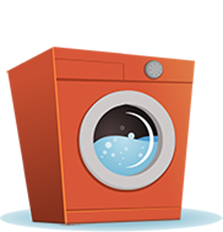
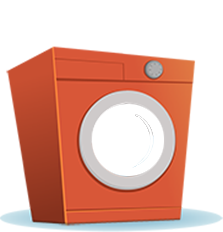
finalizada animacion de lavadora, empezando ultima animacion con error de scroll

Changed region(s): [[0.4036, 0.4224, 0.7534, 0.7845]]

diff --git a/lib/animaciones.js b/lib/animaciones.js
@@ -73,13 +73,13 @@ $('#mensaje_2_1').fadeIn(1000, function(){
                                                 $('#tele_11').fadeIn(200, function(){
                                                     $('#tele_12').fadeIn(200, function(){
                                                         $('#tele_13').fadeIn(200, function(){
-                                                            n_tele=0;
-                                                            setInterval(function(){
-                                                                if(n_tele<=13){
-                                                                    $('#tele_'+n_tele+'').attr("src", "img/tele.gif");
-                                                                    n_tele++;
-                                                                }
-                                                            }, 200);
+//                                                            n_tele=0;
+//                                                            setInterval(function(){
+//                                                                if(n_tele<=13){
+//                                                                    $('#tele_'+n_tele+'').attr("src", "img/tele.gif");
+//                                                                    n_tele++;
+//                                                                }
+//                                                            }, 200);
                                                      });
                                                 });
                                            });
@@ -146,5 +146,19 @@ $('#girar').animate({'margin-left':'326px'}, 2900, function(){
 /*+++++++++++++++++++++++++++++++++++++++++++++++++++++++++++++++++++++++++++++++*/
 /*//////////////////COLCOCACION/////////////////////////*/
 function interaccion_4() {
-
+    setTimeout(function (){ $('#poner').animate({'font-size':'32px'}, 1000, function(){
+        $('#num_lavadoras').animate({'font-size':'161px'}, 1000, function(){
+            $('#let_lavadoras').animate({'font-size':'50px'}, 1000, function(){
+                var angle = 0;
+                setInterval(function(){
+                    angle+=5;
+                     $(".bombo").rotate(angle);
+                },1);
+            });
+        });
+    });
+    }, 1000);
+}
+function interaccion_5() {
+    
 }

diff --git a/lib/colocacion.js b/lib/colocacion.js
@@ -16,15 +16,21 @@ $(document).ready(function() {
     }
     if($(window).height()>748){
         alto=($(window).height()-748)/2;
+        tam=$(window).height()-(alto*2)+40;
         alto+=40;
-        $('.cartel_4').css({'padding-bottom':''+alto+'px', 'padding-top':''+alto+'px'});
+        $('.cartel_4').css({'padding-bottom':''+alto+'px', 'padding-top':''+alto+'px', 'height':''+tam+'px'});
     }
+    
     if($(window).height()>697){
         alto=($(window).height()-748)/2;
         alto+=20;
         $('.cartel_5').css({'padding-top':''+alto+'px'});
         alto+=75;
         $('.sub_contenedor_5').css({'padding-bottom':''+alto+'px'});
+    }
+    if($(window).width()>1000){
+        ancho=($(window).width()-1000)/2;
+        $('.contenedor_4').css({'margin-left':''+ancho+'px'});
     }
 });
 $(window).resize(function() {
@@ -45,8 +51,9 @@ $(window).resize(function() {
     }
     if($(window).height()>748){
         alto=($(window).height()-748)/2;
+        tam=$(window).height()-(alto*2)+40;
         alto+=40;
-        $('.cartel_4').css({'padding-bottom':''+alto+'px', 'padding-top':''+alto+'px'});
+        $('.cartel_4').css({'padding-bottom':''+alto+'px', 'padding-top':''+alto+'px', 'height':''+tam+'px'});
     }
     if($(window).height()>697){
         alto=($(window).height()-748)/2;
@@ -54,6 +61,10 @@ $(window).resize(function() {
         $('.cartel_5').css({'padding-top':''+alto+'px'});
         alto+=75;
         $('.sub_contenedor_5').css({'padding-bottom':''+alto+'px'});
+    }
+    if($(window).width()>1000){
+        ancho=($(window).width()-1000)/2;
+        $('.contenedor_4').css({'margin-left':''+ancho+'px'});
     }
 });
     /*-----------------------------------AJAX----------------------------*/
@@ -91,6 +102,16 @@ jQuery('#acdc_3').onScrollBeyond(
     }
 }
 );
+jQuery('#acdc_4').onScrollBeyond(
+            function() {
+                if (control === 4) {
+                    $('body, html').stop(true, true).animate({
+                        scrollTop: $('#cartel_5').offset().top//vamos al ancla para ver la animacion
+                    }, 1000);
+                    control = 5;interaccion_5();
+                }
+            }
+    );
 ///*------------------------------------CARGA 3------------------------------------------*/
 //        if(control===2){
 //            $('body, html').stop(true, true).animate({

diff --git a/css/estilos.css b/css/estilos.css
@@ -147,16 +147,19 @@
     width: 100%;
     padding-bottom: 20px;
     padding-top: 20px;
+    height: 748px;
 }
 .contenedor_4{
     width: 1000px;
     margin: 0 auto;
+    position: absolute;
+    z-index: 0;
 }
 .lavadoras:first-child{
     margin-left: 0px;
 }
 .lavadoras{
-    margin-left: 36px;
+    margin-left: 0px;
 }
 .contenido_lavadora{
     float: left;
@@ -170,17 +173,31 @@
     font-family: 'Oswald', sans-serif;
     color: #1bcada;
     font-weight: bold;
-    font-size: 32px;
+    font-size: 0px;
 }
 .letras_lavadoras:last-child{
-    font-size: 50px
+    font-size: 0px
 }
 .numero_lavadoras{
     font-family: "Allstar Regular";
     color: #D85738;
-    font-size: 161px;
+    font-size: 0px;
     letter-spacing: -30px;
     margin-left: -10px;
+}
+.lavadoras_cont{
+    float: left;
+    margin-left: 36px;
+}
+.bombo{
+    position: absolute;
+    z-index: -10;
+    margin-left: -135px;
+    margin-top: 100px;
+}
+.lavadoras_cont:first-child{
+    float: left;
+    margin-left: 0px;
 }
 /*--------------------------------------------------------------------------------*/
 /*------------------------------------CARTEL 5------------------------------------*/

diff --git a/cartel_4.php b/cartel_4.php
@@ -1,24 +1,26 @@
 <div class="cartel_4" id="cartel_4">
     <div class="contenedor_4">
+       <!--<div id="acdc_4" style="position: absolute;height: 1px;width: 10%;margin-top: 200px"></div>-->
         <div>
             <?php for($x=0; $x<4; $x++)
-                echo '<img src="img/lavadora.png" alt="" class="lavadoras">'; 
+                echo '<div class="lavadoras_cont"><img src="img/lavadora.png" alt="" class="lavadoras"><img src="img/bombo.png" alt="" class="bombo"></div>';
             ?>
+            
         </div>
         <div style="float: left">
             <?php for($x=0; $x<2; $x++)
-                echo '<img src="img/lavadora.png" alt="" class="lavadoras">'; 
+                echo '<div class="lavadoras_cont"><img src="img/lavadora.png" alt="" class="lavadoras"><img src="img/bombo.png" alt="" class="bombo"></div>'; 
             ?>
         </div>
         <div class="contenido_lavadora">
-            <span class="letras_lavadoras">&Oacute; PONER</span> <span class="numero_lavadoras">11</span><br/>
-            <span class="letras_lavadoras">LAVADORAS</span> 
+            <span class="letras_lavadoras" id="poner">&Oacute; PONER</span> <span class="numero_lavadoras" id="num_lavadoras">11</span><br/>
+            <span class="letras_lavadoras" id="let_lavadoras">LAVADORAS</span> 
         </div>
-        <img src="img/lavadora.png" alt="" class="lavadoras" style="float: left">
+        <div class="lavadoras_cont"><img src="img/lavadora.png" alt="" class="lavadoras"><img src="img/bombo.png" alt="" class="bombo"></div>
          <div class="limpiar"></div>
          <div>
             <?php for($x=0; $x<4; $x++)
-                echo '<img src="img/lavadora.png" alt="" class="lavadoras">'; 
+                echo '<div class="lavadoras_cont"><img src="img/lavadora.png" alt="" class="lavadoras"><img src="img/bombo.png" alt="" class="bombo"></div>';
             ?>
         </div>
         <div class="limpiar"></div>
